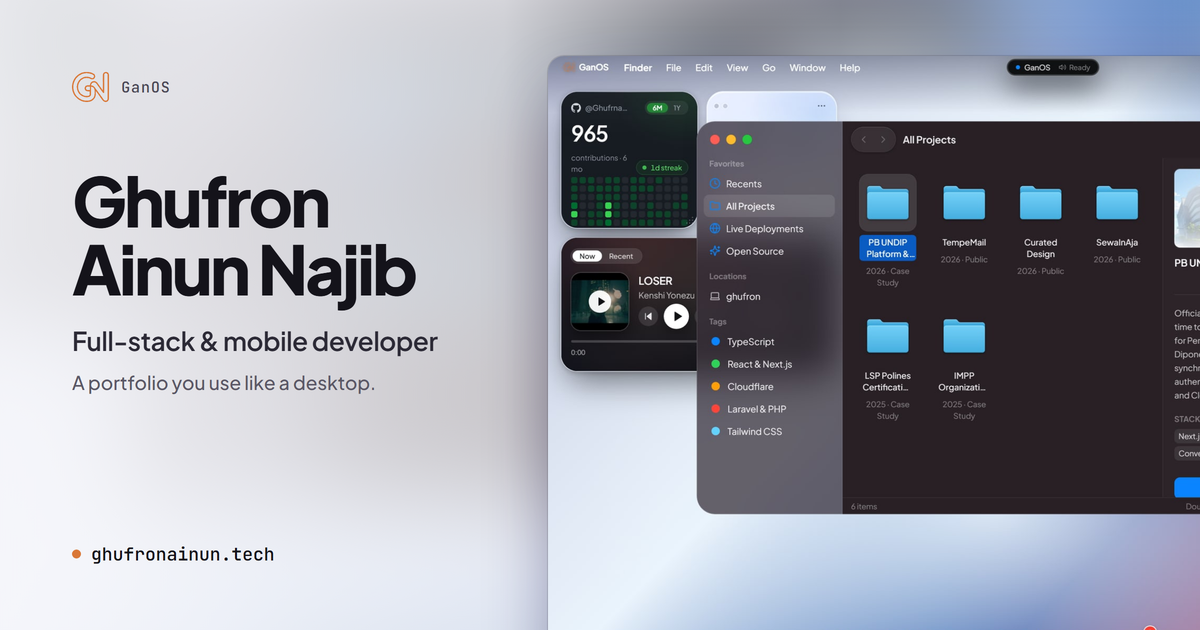
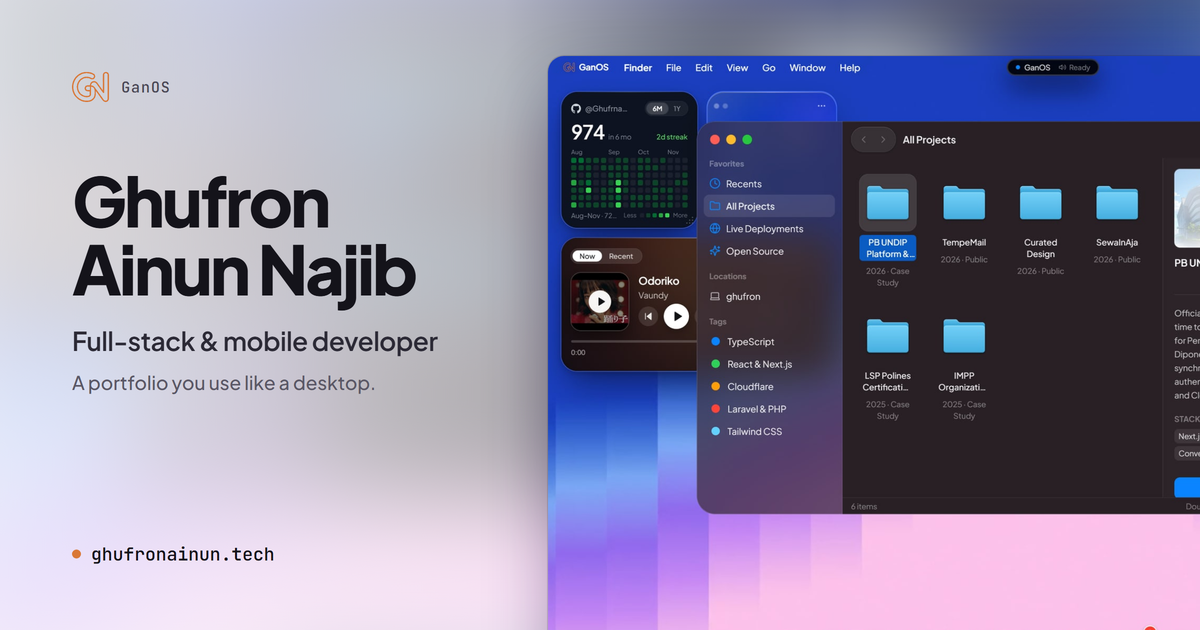
retake og image screenshot on the ultraviolet wallpaper

Changed region(s): [[0.1233, 0.0, 1.0, 1.0], [0.0, 0.5429, 0.0925, 0.6333]]

diff --git a/scripts/og/og.html b/scripts/og/og.html
@@ -26,7 +26,7 @@
       .veil {
         position: absolute;
         inset: 0;
-        background: linear-gradient(90deg, rgba(246, 246, 250, 0.92) 0%, rgba(246, 246, 250, 0.78) 42%, rgba(246, 246, 250, 0.1) 70%);
+        background: linear-gradient(90deg, rgba(246, 246, 250, 0.86) 0%, rgba(246, 246, 250, 0.66) 42%, rgba(246, 246, 250, 0.1) 70%);
       }
       .shot {
         position: absolute;
